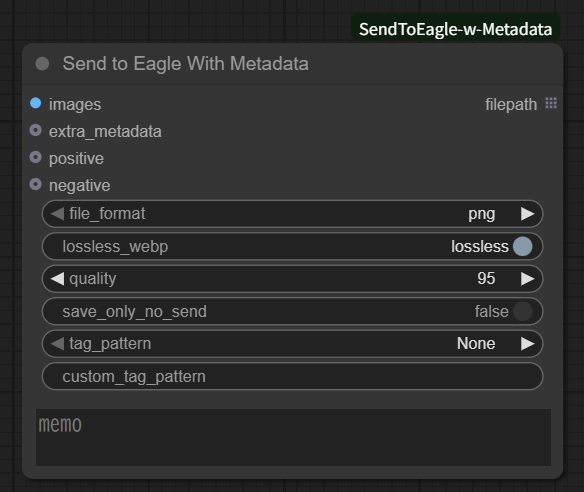
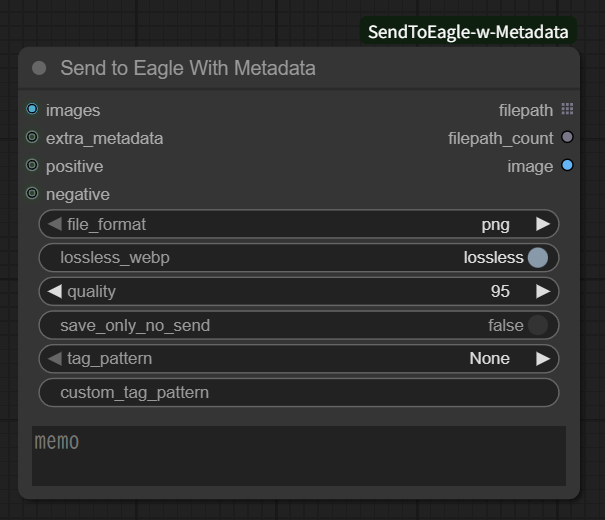
update README for 1.1.6

diff --git a/README.md b/README.md
@@ -64,7 +64,9 @@ If an input is a list, the corresponding element is applied to each image in the
 
 ### Node Output
 
-- Outputs the full file path of the saved image (list format)
+- filepath: Outputs the full file paths of saved images (in list format)
+- filepath_count: Outputs the number of saved images
+- image: Outputs the input image as received
 
 ## Send to Eagle With Metadata (Extended)
 
@@ -172,6 +174,7 @@ Refer to the table below for the identifiers specified in `<format>` of `%date:<
 - Workaround: Explicitly input values into the node's positive/negative inputs.
 
 ## Change History
+- 2025/11/05 1.1.6 Added IMAGE to output. Outputs the IMAGE received as input without modification.
 - 2025/11/03 1.1.5 Fixed a bug that could cause the error "AttributeError: 'NoneType' object has no attribute 'caches'".
 - 2025/11/02 1.1.4 Fixed a bug that caused errors in certain workflows
 - 2025/11/01 1.1.3 Added the ability to set different values for each image in a batch by passing a list to each input in filename_prefix/custom_tag_pattern/eagle_folder/memo/extra_metadata.
